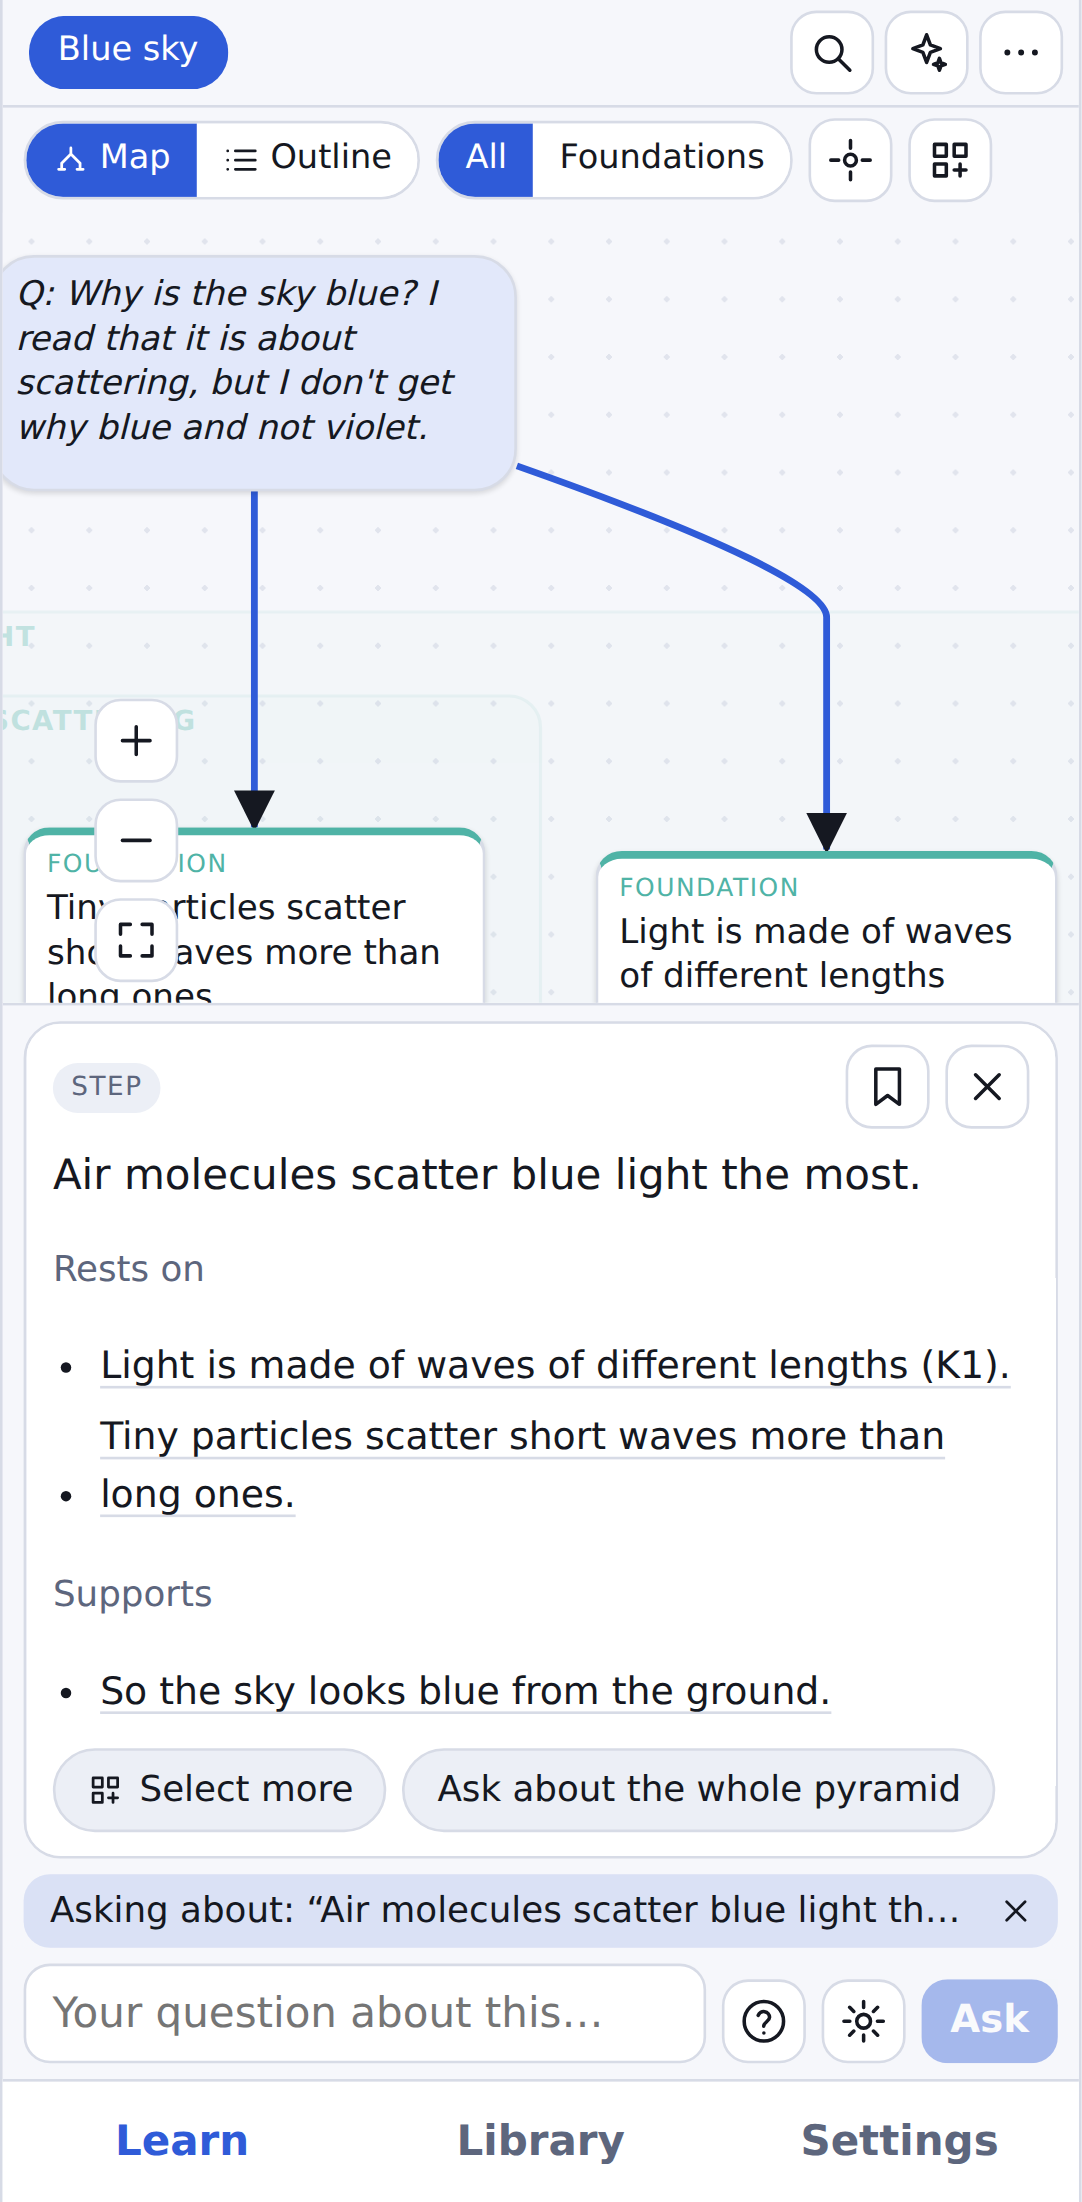
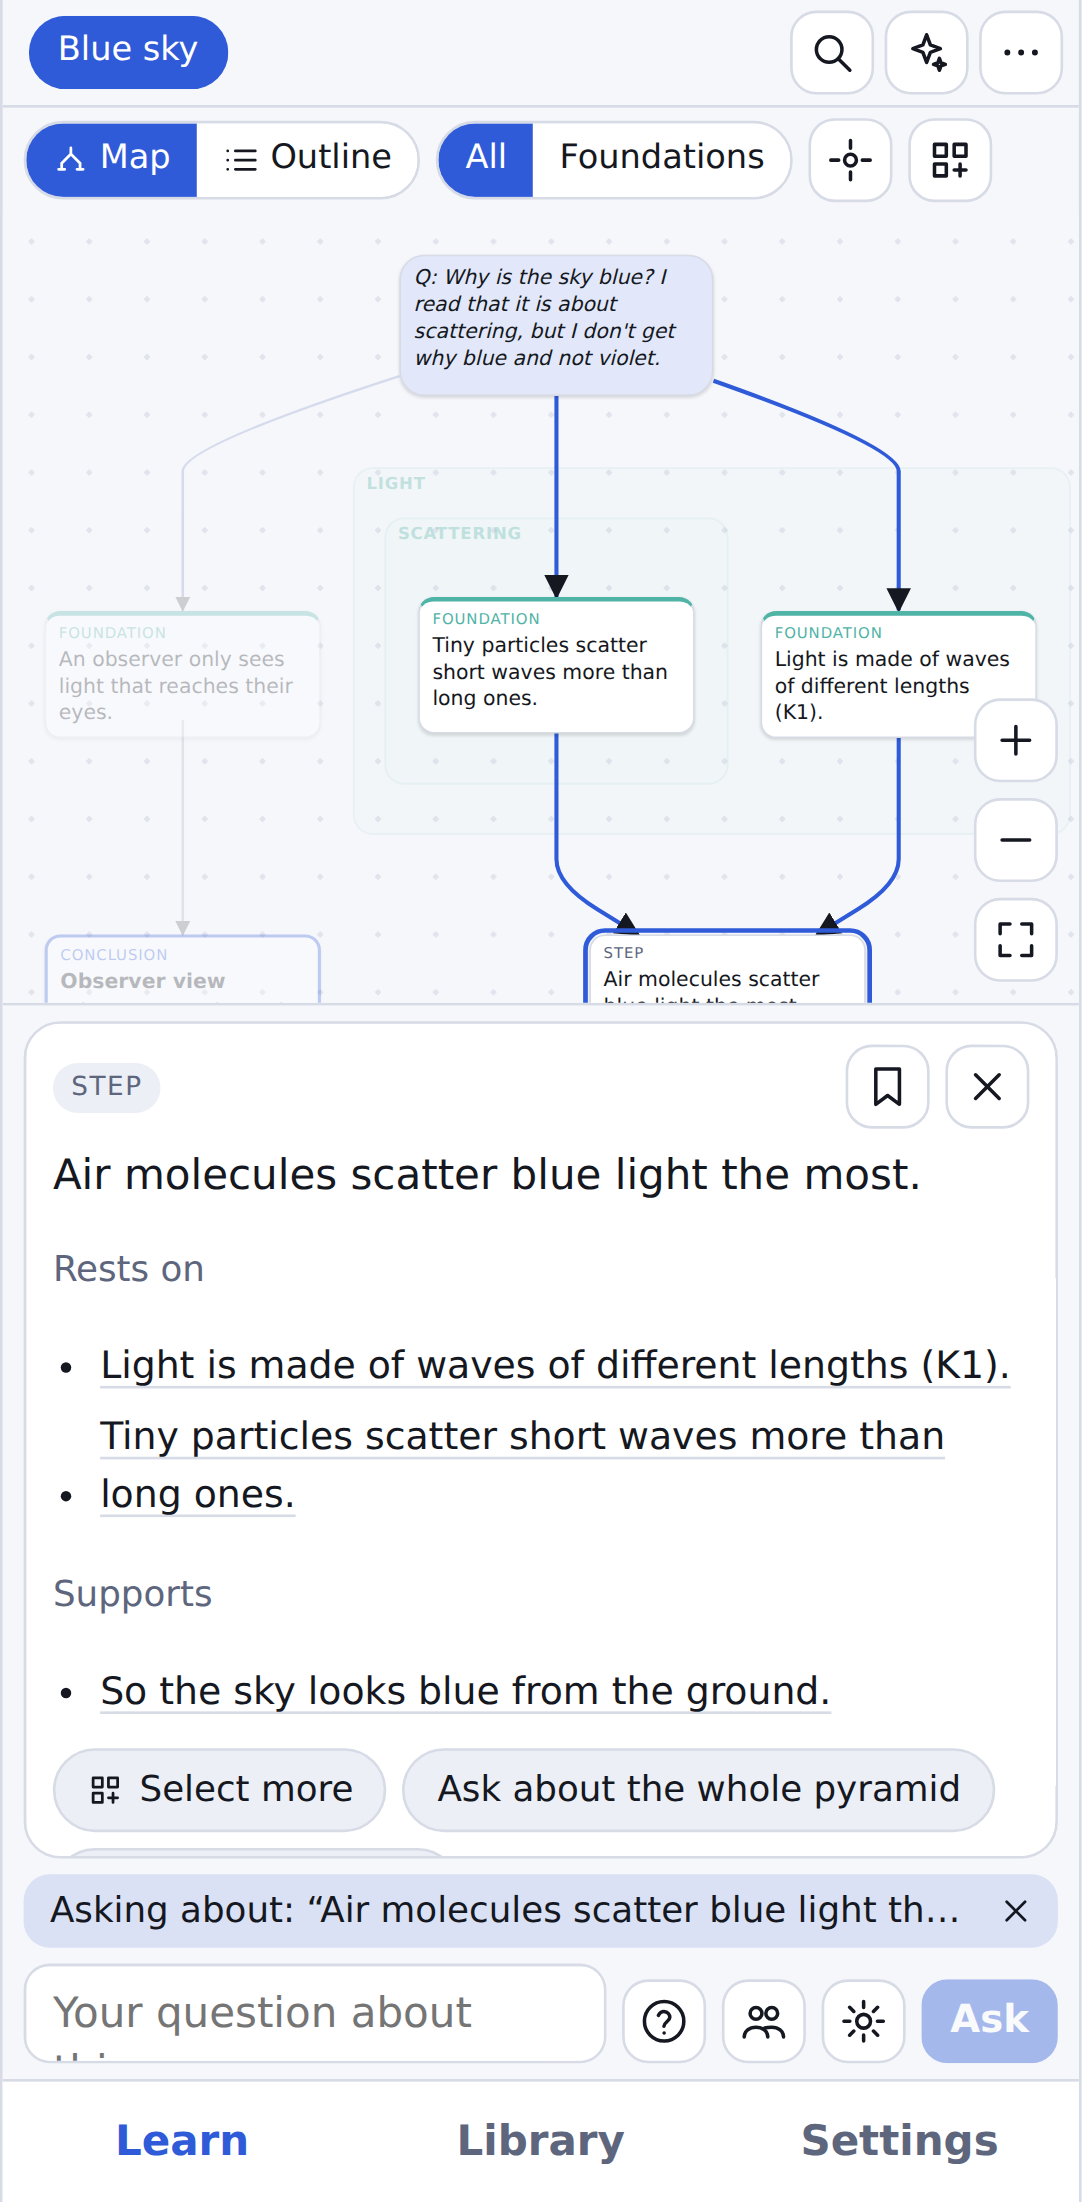
Document the map, council, stories and storage; refresh screenshots
Claude-Session: https://claude.ai/code/session_018tvdYN9ZX9iNJTNdSABCyD

diff --git a/e2e/screenshots.spec.ts b/e2e/screenshots.spec.ts
@@ -32,6 +32,18 @@ test("capture each screen", async ({ page }) => {
   await page.getByRole("button", { name: "Outline" }).click();
   await page.waitForTimeout(300);
   await shot("7-outline");
+  await page.getByRole("button", { name: "Menu" }).click();
+  await page.getByRole("button", { name: /Learn as a story/ }).click();
+  await page.waitForTimeout(200);
+  await shot("9-story-start");
+  await page.getByRole("dialog", { name: "Learn as a story" }).getByRole("button", { name: "Make the story" }).click();
+  await page.locator(".story-pic img").waitFor();
+  await page.waitForTimeout(300);
+  await shot("10-story-player");
+  await page.goto("/#/settings/story");
+  await page.getByLabel("Video model").waitFor();
+  await page.waitForTimeout(300);
+  await shot("11-story-settings");
   await page.goto("/#/settings/storage");
   await page.waitForTimeout(300);
   await shot("8-storage");

diff --git a/IDEA.md b/IDEA.md
@@ -1,111 +1,130 @@
 # Fractal: learn by questioning every answer
 
-Ask a frontier AI a question. Then question its answer, or any later answer, as deeply as you like. Fractal keeps every question as a branch of a tree, not a straight chat, so you can always find your way back.
+Ask a frontier AI a question. Then question its answer, or any later answer, as deeply as you like. Fractal keeps every question as a branch of a tree, not a straight chat, and draws every answer as a **pyramid of reasoning** on one map, so you can see how ideas connect and always find your way back.
 
-Mobile only. Runs in the phone browser (installable PWA). History stays on your phone.
+Mobile only. Runs in the phone browser (installable PWA). Everything stays on your phone, with a one-tap backup.
 
 ## The core loop
 
-1. Ask a question. The answer arrives as a **card** of short blocks, one premise each.
-2. **Tap any sentence.** A new card slides in with that sentence as its header and an input: *"What do you want to ask about this?"*
-3. Keep going. Every card can have many questions, so the session becomes a tree.
-4. Press **✦ Synthesize** at any time to compile the whole tree into a one-page **Concept Outline**. Outlines are collected in a **Library**, grouped by subject.
+1. Ask a question. The box on Home grows with what you paste and keeps paragraph breaks.
+2. The answer arrives as one or more **pyramids** on the **map**. Each one builds from the bottom up:
+   - **Foundations** (first principles) at the top, grouped into **categories**, which can sit inside other categories
+   - **Steps** derived from the foundations
+   - a **Conclusion** at the bottom, whose title names the pyramid
+
+   Unrelated parts of an answer become separate pyramids.
+3. Ask about:
+   - one point (tap it)
+   - several points (**Select several points**, then tap each)
+   - a category (tap its title)
+   - a whole pyramid (**Ask about the whole pyramid** in the point's panel)
+4. The new question appears as a bubble linked to what you asked about, and its answer as new pyramids. Answers can build on earlier points (dashed "builds on" links). When an answer declares no link, similar earlier points are linked with dotted lines.
+5. **✦ Synthesize** compiles the whole tree into a **Concept Outline** in the **Library**.
 
 ```
-Q: What is superposition?
- ├ [1] "A mix of states at once"
- ├ [2] "Measuring gives one result"
- │    ├─> Q: Why does measuring change it?
- │    │    └ [2] "It entangles with the world"
- │    │         ├─> Q: Who counts as an observer?
- │    │         └─> Q: Is that decoherence?
- │    └─> Q: Can you measure gently?
- └ [3] "Odds come from the wave function"
-      └─> Q: Why is it squared?
+ [Light]──────────[Scattering]        ← categories of foundations
+  Light is waves   Small particles
+        \           /  scatter short waves
+       Air scatters blue the most     ← step
+              |
+        "Blue sky"                    ← conclusion (pyramid title)
+              |
+      ( Why not violet? )             ← your question, linked to the point
+              |
+        new pyramid… ─ ─ builds on ─ ─ ▶ earlier foundation
 ```
 
-## One card
+## The map
 
-```
-┌──────────────────────────────┐
-│ Physics > Measurement > ...  │ ← breadcrumbs (tap a tag to jump back)
-│                          [🔍]│
-├──────────────────────────────┤
-│ [↑ Parent]  [◀] 1 / 2 [▶] [⋯]│ ← buttons, no gestures
-├──────────────────────────────┤
-│ "Measuring gives one result" │ ← the sentence you tapped
-│ Q: Why does measuring        │
-│    change anything?          │
-│ ┌──────────────────────────┐ │
-│ │ Measuring means          │ │ ← each block = one premise
-│ │ interacting.             │ │
-│ └──────────────────────────┘ │
-│ ┌──────────────────────────┐ │
-│ │ Interacting entangles    │ │ ← tap any sentence to dig deeper
-│ │ it with the world.       │ │
-│ └──────────────────────────┘ │
-│ > Show reasoning             │ ← folded away
-│ Questions on this card (2)   │ ← the way back down
-├──────────────────────────────┤
-│ ◯ 38k / 1M                   │ ← context left
-│ [Why?][Example][What if…]    │
-│ [ Ask about this card… ][⚙][Ask]
-│ [        ✦ Synthesize     ][▾]│
-│  Learn      Library   Settings│
-└──────────────────────────────┘
-```
+- **Moving around:** pinch to zoom and drag to move, plus buttons for **−**, **+**, **Fit** and **Focus** (frames the current answer).
+- **All | Foundations:** Foundations shows only the first principles of the whole topic, inside their categories, as an overview.
+- **Selecting a point** highlights what it rests on and what it supports, across answers. The panel lists both, plus a bookmark and **Learn as a story**.
+- **Outline** shows the same answer as an indented list for reading.
+- **Breadcrumbs** (small pills) show the path to the current answer; tapping one jumps there.
+- **Search by concept:** embeddings find candidates, an LLM reranks them, and the map opens on the exact point. Offline, search falls back to word matching.
+- **Bookmarks:** a small black-and-white ribbon on points and answers. Saved items are listed on Home and in the Library.
+- **Compact UI:** the quick-question chips sit behind the **?** toggle. Icons are monochrome line drawings, not emoji.
 
-## Navigation
+## LLM Council (optional, per question)
 
-- **Breadcrumbs** are short semantic tags (2–4 words) written by a fast model. Tapping one teleports to that card.
-- **↑ Parent**, **◀ 1 / 2 ▶** (sibling questions on the same parent) and a **Questions on this card** list cover up, sideways and down.
-- **Search by concept** ("where did I ask about observers?"): embeddings find candidate cards, an LLM reranks them, and the exact card opens in its branch with the matching block highlighted. Offline, search falls back to word matching.
+Turn on the **Council** toggle next to the question box before asking. It stays on for that topic until you turn it off. This follows [karpathy/llm-council](https://github.com/karpathy/llm-council), but conversations can continue.
+
+1. **Members** (newest Gemini Pro, Claude Opus, top ChatGPT and Grok by default) answer in parallel, each with the branch history.
+2. **Peer review:** members rank each other's anonymized answers ("Response A…"). This step can be turned off.
+3. The **chairman** (one fixed model, changeable between questions with **▾** or in Settings › Council) reasons and writes the final pyramid using **only the council's text**. Each point cites the answers it came from. A cheap verifier then checks every point against the member answers, and points that aren't supported are removed (or, if you prefer, badged "Not in the council's answers").
+
+Each member's answer has **Continue with this model**, which switches the council off and asks the next question with that model. Later questions replay a council answer as the plain question plus the checked JSON, with no reasoning, so history stays append-only.
+
+## Story slides (optional, on demand)
+
+**Learn as a story** (in the ⋯ menu, or on a point) turns this answer, the point's pyramid, or the whole branch into 3–4 narrated slides. Nothing is generated until you ask.
+
+- **Style:**
+  - **TED-Ed:** a character-driven hook, warm flat illustrations, and a reflective question at the end
+  - **ScienceClic:** one visual model built step by step, with geometric diagrams on dark
+  - **Custom**
+
+  The rules for every style can be edited. **Add screenshots** of frames you like, and a vision model writes a style description for that style.
+- **Pictures:**
+  - **Shapes drawn by AI** (default): a small SVG in a chosen look (colorful flat vectors, line art, diagrams on dark, isometric, paper cut-out, chalkboard, or your own). It is sanitized and shown only as an image.
+  - **AI image** per slide or for every slide. Models and settings come from OpenRouter's `/images/models` and each model's endpoint record, with an estimated price per image.
+  - **AI video**, opt-in per slide. Models, durations, resolutions, aspect ratios and sound come from `/videos/models`, and the price from `pricing_skus` is shown before you confirm. Jobs keep going if you leave, and resume after a restart.
+- **Voice:**
+  - an AI voice model with a voice picker, **▶ Preview** and speech speed
+  - playback speed from 0.75× to 2× in the player
+  - autoplay to the next slide
+- **Player:**
+  - picture with a slow pan and zoom
+  - captions: tap a sentence to ask about it on the map
+  - ◀ ▶ / ⏸ ▶ controls and the speed chip
+  - **Regenerate** for any picture or narration that failed or was deleted
+
+## Storage and backup
+
+Everything is kept in the phone's browser storage (IndexedDB), and the app asks Chrome to protect it from automatic cleanup. Search vectors are stored compactly (Int8, 512 dimensions where supported), and AI images are re-saved as WebP.
+
+**Settings › Storage:**
+- shows usage per topic and per file (voice, images, videos) with sizes
+- you pick what to delete; nothing is deleted automatically
+- a story whose files were deleted keeps its text and offers Regenerate
+
+**Back up** writes one `.zip` through Android's share menu (save it to Google Drive or Files); you can leave videos out. **Restore** reads it back. The API key is never included. A banner reminds you after 7 days without a backup.
 
 ## Synthesis (and how to change it)
 
-**✦ Synthesize** reads the whole tree of the session in the background and returns structured JSON: title, category, summary, and sections of points. Each point links back to the card(s) it came from.
-
-In **Settings › Synthesis** (or the **▾** next to the button for a single run) you can change:
-
-- the **style** (concept outline, study notes, Q&A flashcards, argument map, textbook chapter)
-- the full **synthesis prompt**
-- heading depth, length, examples, open questions and language
-- the **model** and its reasoning settings
-- whether categories are reused or chosen freely, and rename or merge categories
-
-The **Library** groups outlines by category ("Economics", "Biology"), with an "In progress" section for anything not yet synthesized. Re-synthesizing keeps older versions.
+**✦ Synthesize** reads the whole tree in the background and returns structured JSON: title, category, summary, and sections of points that link back to their answers. In **Settings › Synthesis** (or **Synthesize with options…** in the ⋯ menu) you can change:
+- the style (concept outline, study notes, Q&A flashcards, argument map, textbook chapter)
+- the prompt and the length
+- the model and the language
+- categories (rename or merge)
 
 ## The hidden system prompt (and how to change it)
 
-Every session starts with a hidden system prompt containing two exact directives:
+Every topic starts with a hidden system prompt containing two exact directives:
 
 1. "Never provide long, unbroken walls of text. Break answers into distinct, logical premises."
 2. "Speak in first principles. Assume the user will question the foundational logic of every claim you make."
 
-It also carries formatting rules (one premise per paragraph) and honest-pushback rules. Edit it in **Settings › System prompt**; each rule has a switch. Changes apply to **new** sessions: a session keeps the prompt it started with, which keeps its history append-only and its reasoning valid.
+It also has short-premise and honest-pushback rules. Edit it in **Settings › System prompt**, where each rule has a switch. A fixed **answer format** section (the pyramid JSON) is added after it and shown there read-only. Changes apply to **new** topics; a topic keeps the prompt it started with.
 
 ## Models and settings (OpenRouter)
 
-Fractal talks to [OpenRouter](https://openrouter.ai), so one account covers Gemini Pro and Flash, Grok, the ChatGPT tiers, and Claude Opus, Fable and Sonnet. The model list is loaded live; each family starts on its newest model, and the answer model defaults to the newest Gemini Pro.
-
-The **⚙** button opens that model's settings. Each control shows only if the model supports it:
+Fractal talks to [OpenRouter](https://openrouter.ai): Gemini Pro and Flash, Grok, the ChatGPT tiers, and Claude Opus, Fable and Sonnet. The model list is loaded live, and the answer model defaults to the newest Gemini Pro. The **⚙** button shows only the settings a model supports:
 
 | Model | Extra settings and exceptions |
 |---|---|
-| **Every model** | Reasoning effort levels, the token-budget slider, and the off switch follow the model's own `reasoning` info from OpenRouter. Also temperature, top-p, max tokens and the like where listed, plus provider routing and fallback models. |
-| **Claude** | Effort can't be "none"; "minimal" is sent as "low". Max tokens is always kept above the reasoning budget. Newer Claude models don't accept temperature. Effort can change mid-session without resetting the cache on newer models. |
-| **Gemini 3** | Effort maps to Google's thinking level ("xhigh" is treated as "high"); the budget is approximate; reasoning usually can't be turned off. |
-| **Grok** | Effort level only; no budget slider. |
-| **GPT-5.6 and newer** | Pro mode, reasoning context (auto / all turns / current turn) and verbosity. |
-
-Effort and a token budget are never sent together. If reasoning uses up the whole token limit, the card says so and offers **More tokens** or **Lower effort**.
+| **Every model** | Reasoning effort, the budget slider and the off switch follow the model's `reasoning` info. Temperature, top-p, max tokens and the like appear where listed, plus provider routing and fallbacks. |
+| **Claude** | Effort can't be "none"; "minimal" is sent as "low". Max tokens stays above the reasoning budget. |
+| **Gemini 3** | Effort maps to Google's thinking level; reasoning usually can't be turned off. |
+| **Grok** | Effort level only. |
+| **GPT-5.6 and newer** | Pro mode, reasoning context and verbosity. |
 
 ## Memory ("context left")
 
-Each branch sends only its own path, so drilling down stays cheap. The meter on every card shows tokens used against the model's limit. At about 70% it offers **Continue in a fresh branch**: a short AI summary of the path becomes a new linked root card.
+Each branch sends only its own path. The question's panel shows tokens used against the model's limit. At about 70%, **Continue in a fresh branch** starts a new linked root from a short summary.
 
 ## Not in this version
 
-- Spending guardrails (each card just shows its cost).
-- Cloud sync or accounts. Export/import JSON in Settings › Data is the backup.
-- A chat-bubble view.
+- Spending guardrails (each answer shows its cost, and AI images and video show an estimate first).
+- Cloud sync or accounts: the zip backup is the way to move data.
+- Swipe gestures: the map uses pinch and drag, and everything else uses buttons.

diff --git a/CLAUDE.md b/CLAUDE.md
@@ -31,7 +31,9 @@ Pure logic (`src/`, covered by `tests/`):
 - `openrouter.ts` is the whole network layer (plain `fetch`) plus `applyChunk`, the SSE accumulator.
 - `prompts.ts` holds the hidden system prompt, synthesis presets and the JSON schema for outlines. `effort.ts` plans mid-conversation effort changes. `context.ts` is the token meter and fresh-branch card. `search.ts` is cosine/keyword search. `route.ts` is the hash router.
 
-Orchestration: `ai.ts` (ask / run / retry, tags, embeddings, concept search, fresh branch), `synthesis.ts` (background outline jobs), `db.ts` + `store.ts` (Dexie tables, settings, models and live-stream stores, `useLive`). `screens/` and `components/` are the UI.
+Also pure: `answer.ts` (parse/normalize pyramid JSON, pyramids, outline text), `mapLayout.ts` (dagre graph), `councilLogic.ts` (rankings, grounding), `storyStyles.ts` (story/draw prompts, style presets, `sanitizeSvg`), `mediaSettings.ts` (OpenRouter image/video descriptors → controls, price estimates, video poll states).
+
+Orchestration: `ai.ts` (ask / run / retry, tags, embeddings, concept search, fresh branch), `council.ts` (members → reviews → grounded chairman → verifier), `stories.ts` (story text, SVG drawing, narration, screenshot style notes), `media.ts` (AI images, video jobs, image/video model metadata store), `synthesis.ts` (background outline jobs), `db.ts` + `store.ts` (Dexie tables, settings, models and live-stream stores, `useLive`). `screens/` and `components/` are the UI.
 
 ## Rules to keep
 
@@ -44,7 +46,9 @@ Orchestration: `ai.ts` (ask / run / retry, tags, embeddings, concept search, fre
 - The answer format section (`ANSWER_FORMAT` in `prompts.ts`) is appended to each new topic's frozen prompt; replay sends the stored JSON verbatim. v1 topics (prose answers, no format marker) still open: `cardAnswer()` converts paragraphs to a chain.
 - Search vectors are Int8 (cosine ignores scale); text-embedding-3 models are asked for 512 dimensions.
 - Storage: IndexedDB only (Dexie v2 adds bookmarks, stories, media). Nothing is deleted automatically; Settings › Storage lets the user pick files/topics. Backups are one zip (`backup.ts`, fflate) without the API key.
-- Synthesis runs in a module-level queue and its status is persisted; unfinished jobs resume on start (`resumePending`).
+- LLM Council: the chairman's answer must be grounded in the members' text (`sources` per node + verifier); replay sends the plain question and the final JSON, never council reasoning.
+- Stories are on demand only. SVG pictures go through `sanitizeSvg` and are shown only as `<img>` data URIs. Image/video settings and prices come from OpenRouter metadata (`/images/models` + endpoints, `/videos/models`); never hardcode model ids or parameters. Video costs are confirmed before submitting; jobs are persisted on the slide (`videoJob`) and `resumeVideos` polls them on start.
+- Synthesis runs in a module-level queue and its status is persisted; unfinished jobs resume on start (`resumePending`, `resumeStories`).
 
 ## Deployment
 
